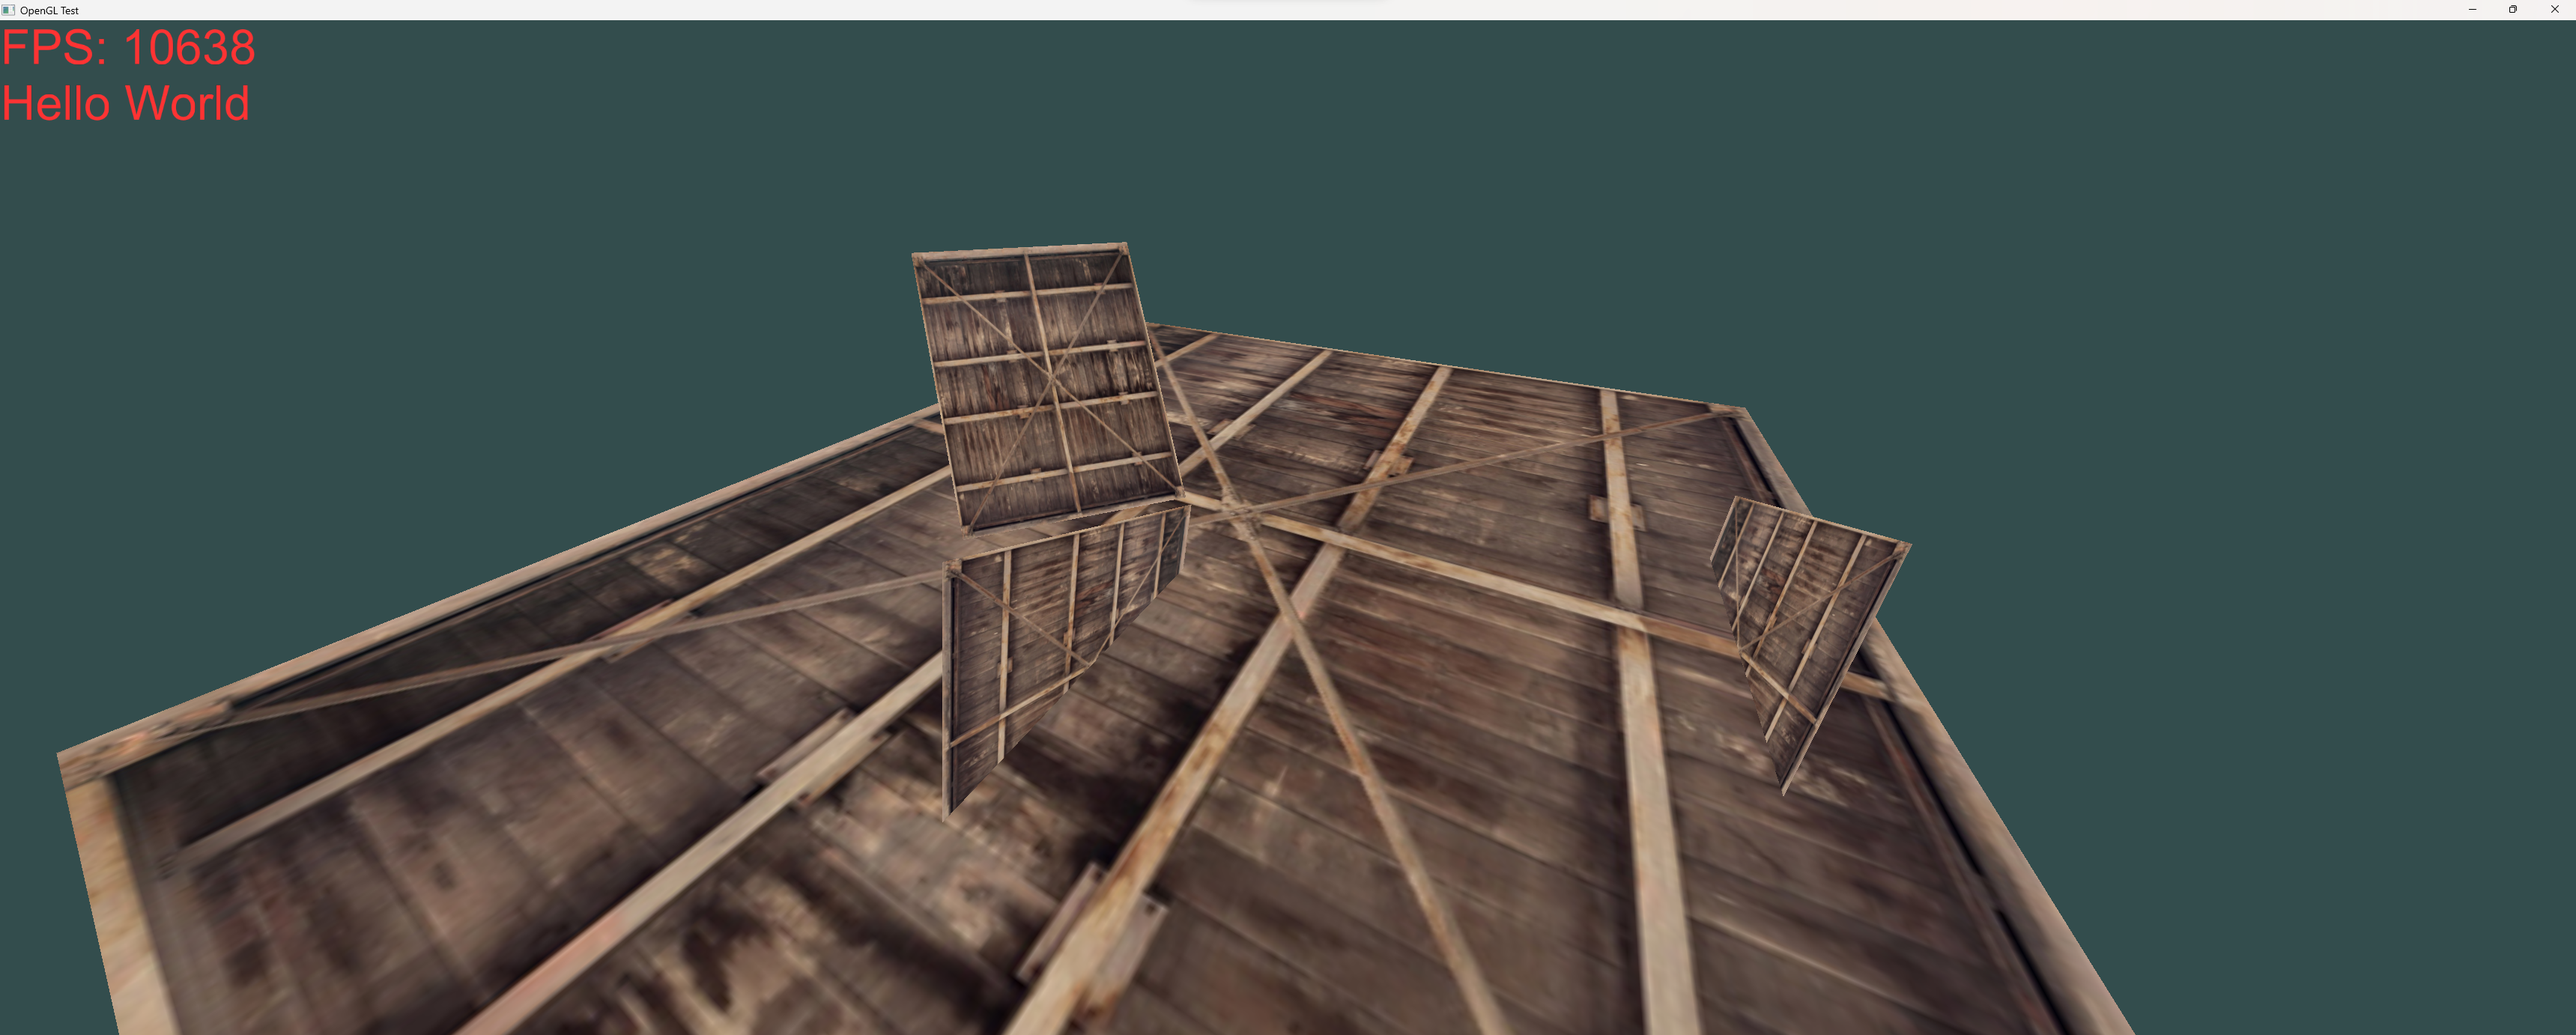
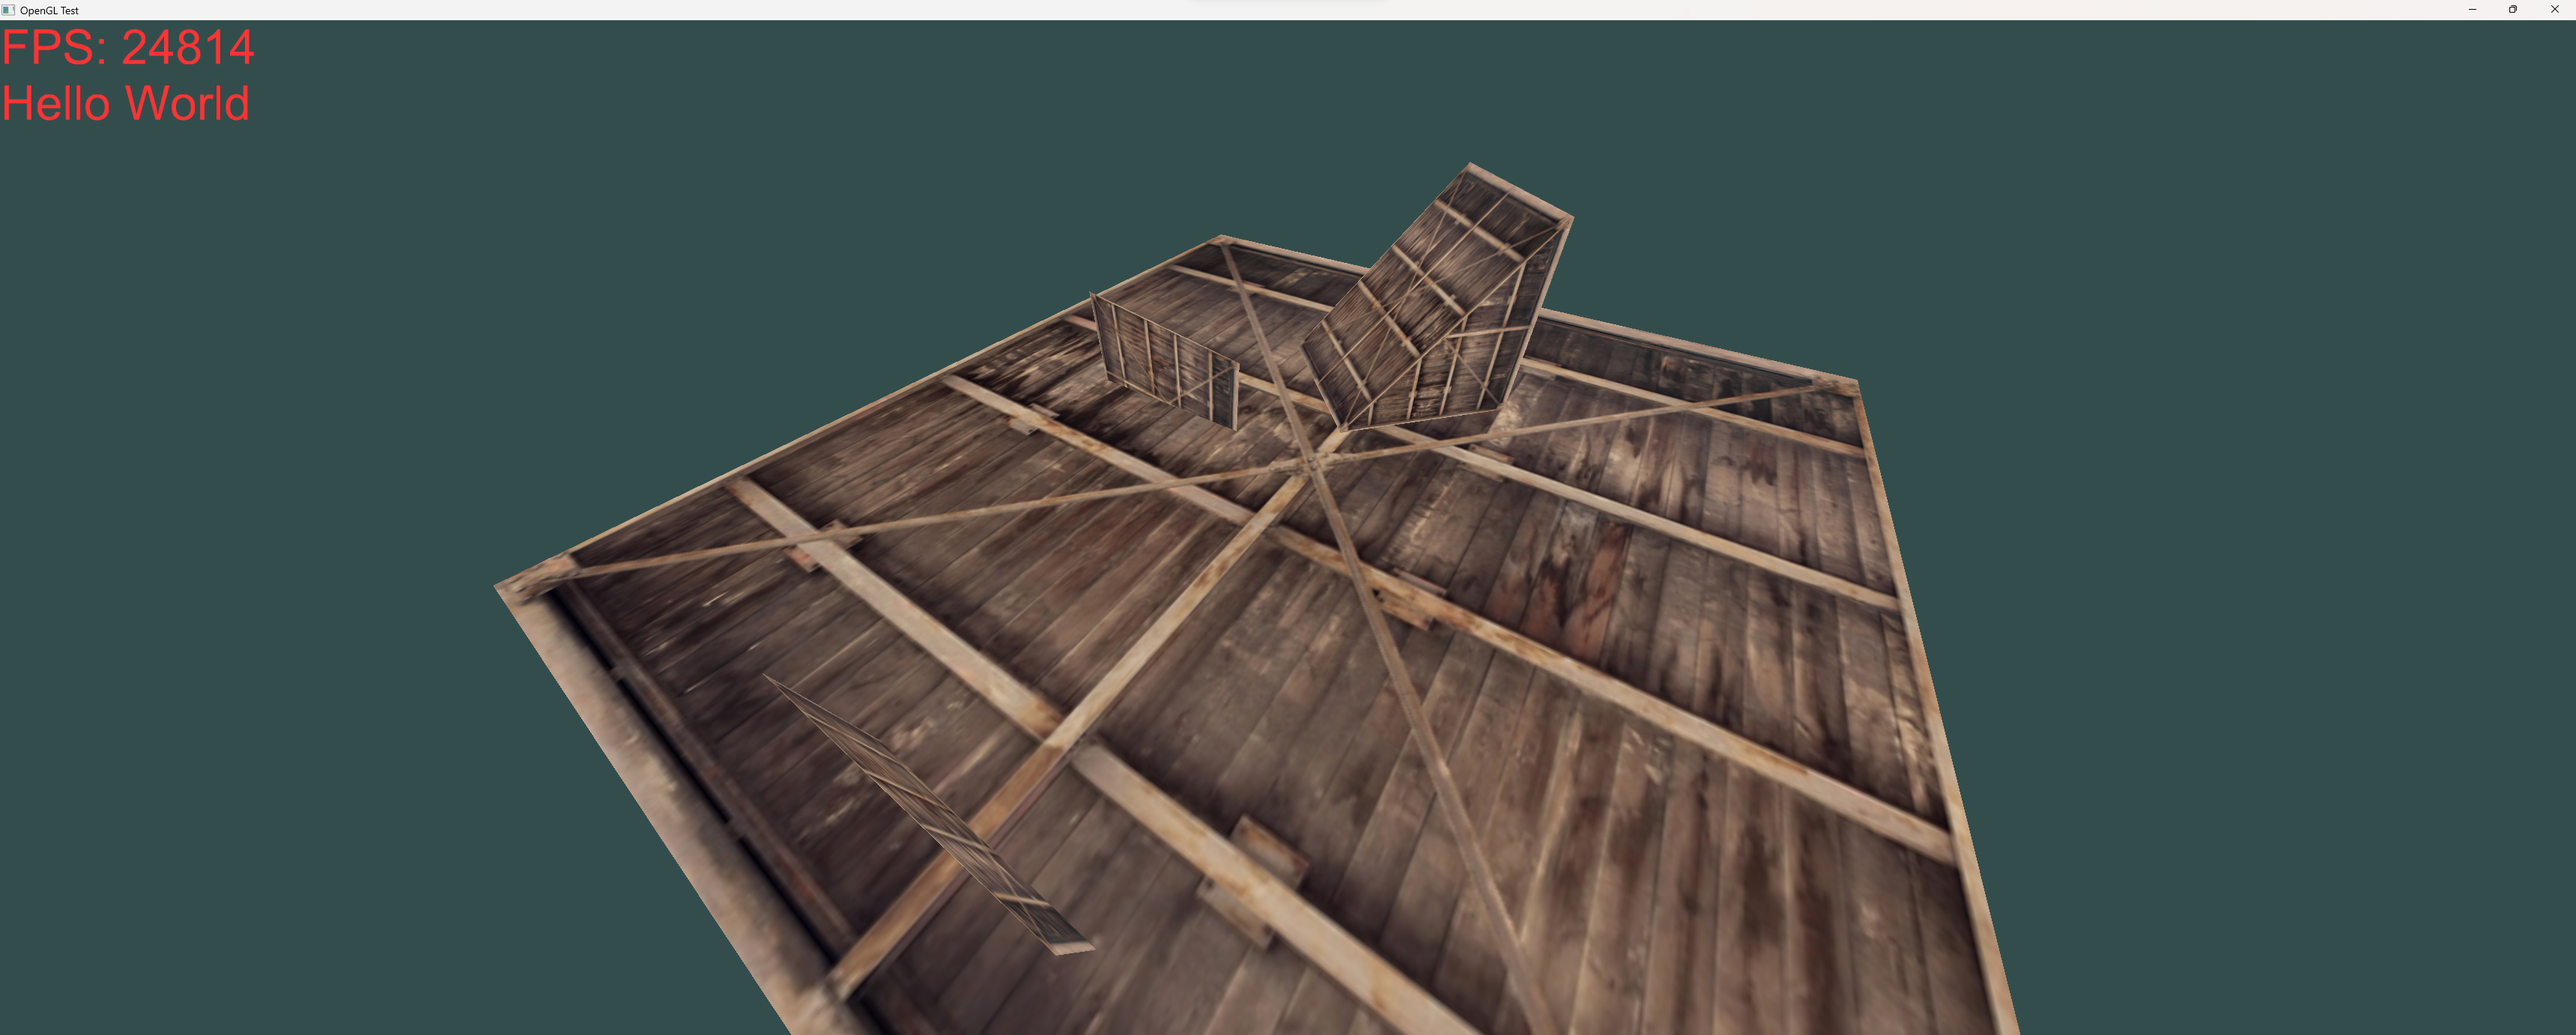
Change sample screenshot to showcase the slope mesh

diff --git a/README.md b/README.md
@@ -1,3 +1,3 @@
 # opengl_test
-A simple test project using [my_gl](https://github.com/DiSaber/my_gl). Place the resources.pck file wherever the executable is located. Use WASD and QE to move. Hold shift to speed up.
+A simple test project using [my_gl](https://github.com/DiSaber/my_gl). Place the resources.pck file wherever the executable is located. Use WASD and QE to move. Hold shift to speed up. Escape to quit.
 ![Sample screenshot](/sample.png)
